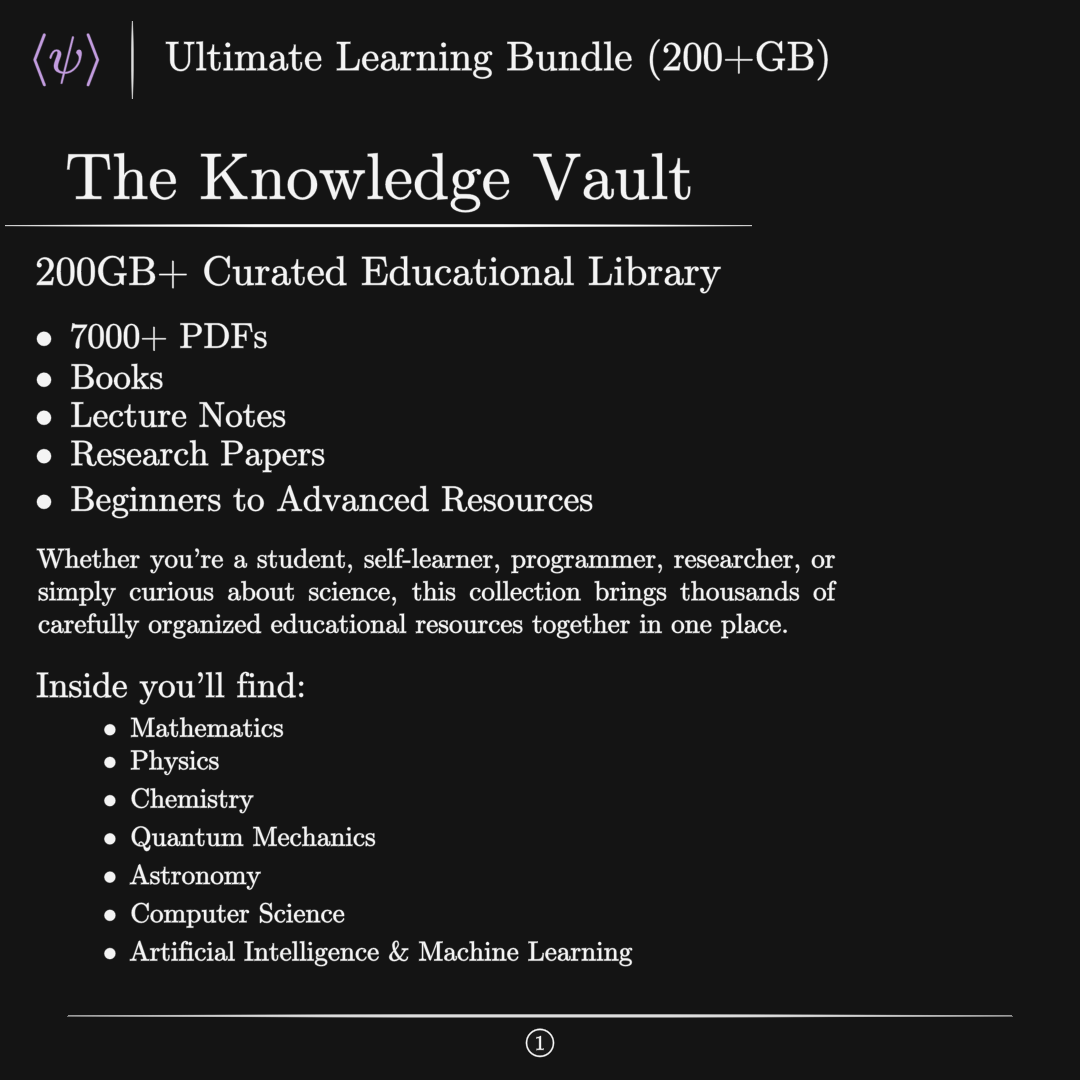
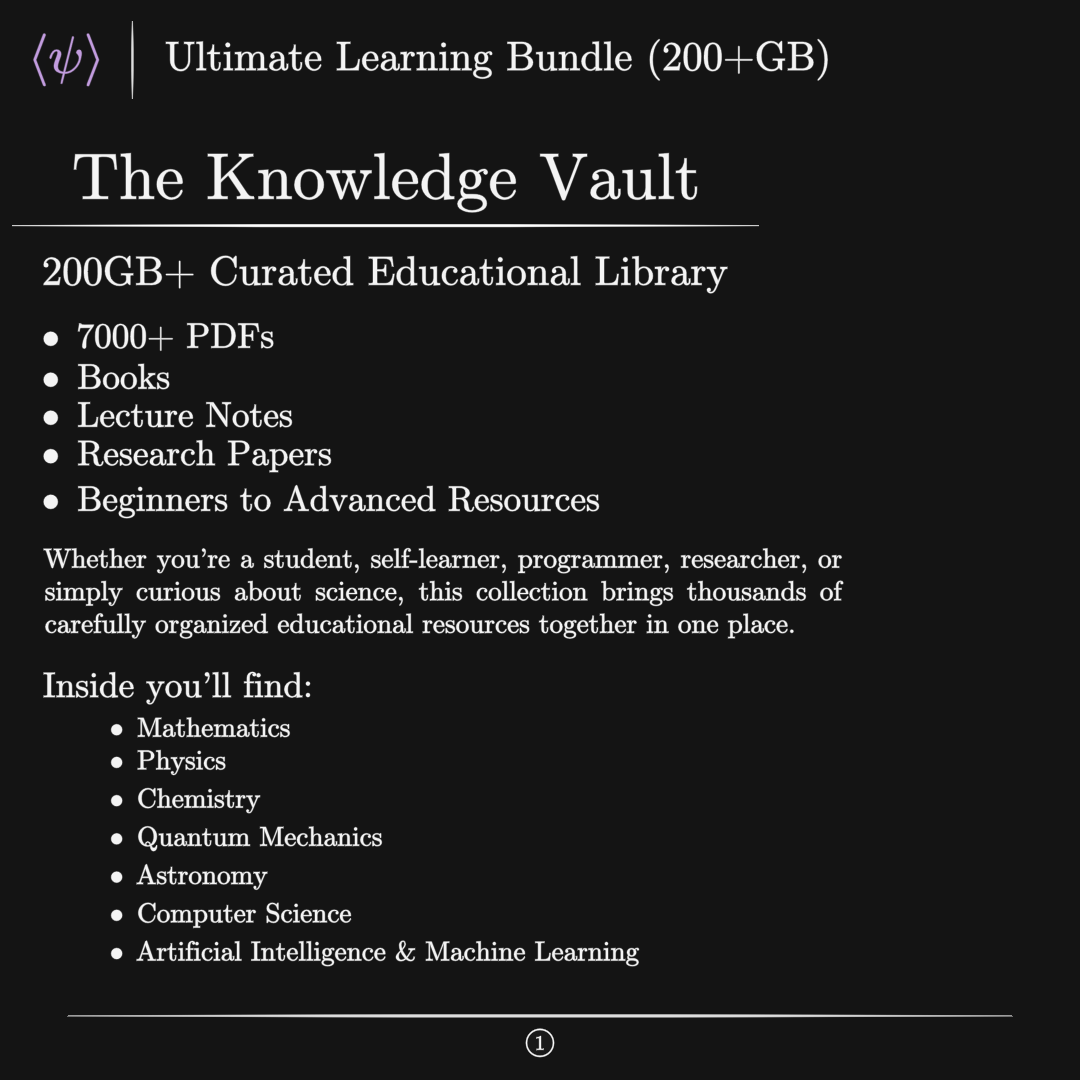
f

Changed region(s): [[0.0306, 0.2139, 0.7944, 0.9167], [0.0611, 0.1222, 0.6417, 0.2139]]

diff --git a/test.py b/test.py
@@ -46,7 +46,7 @@ class Paid(PaidTemplate):
     def construct(self):
         cont = TexText(R"The Knowledge Vault")
         cont.next_to(self.logo, DOWN, buff=LARGE_BUFF * 0.5, aligned_edge=LEFT)
-        cont.shift(RIGHT * 0.25)
+        cont.shift(RIGHT * 0.3)
         cont_underline = Underline(cont, stroke_width=[0.5, 2, 2, 0.5])
         self.add(cont, cont_underline)
 
